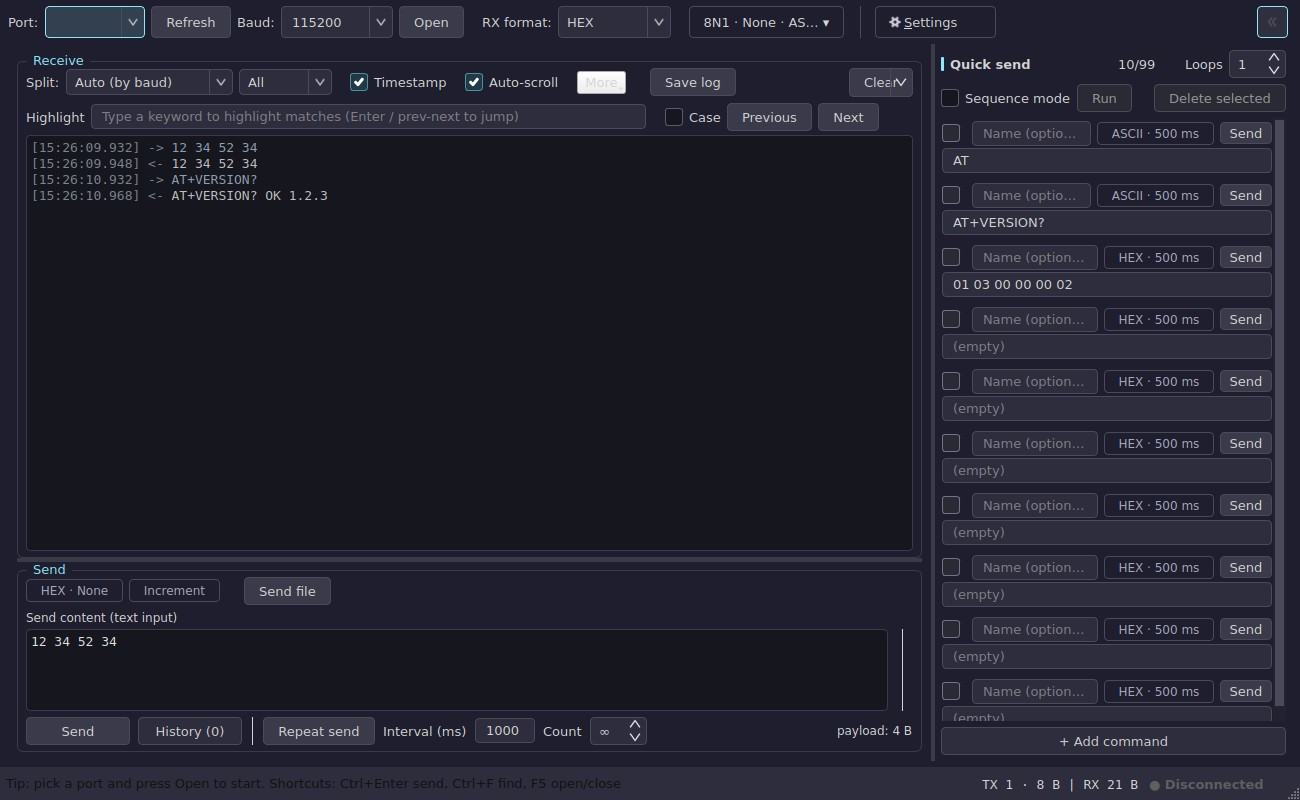
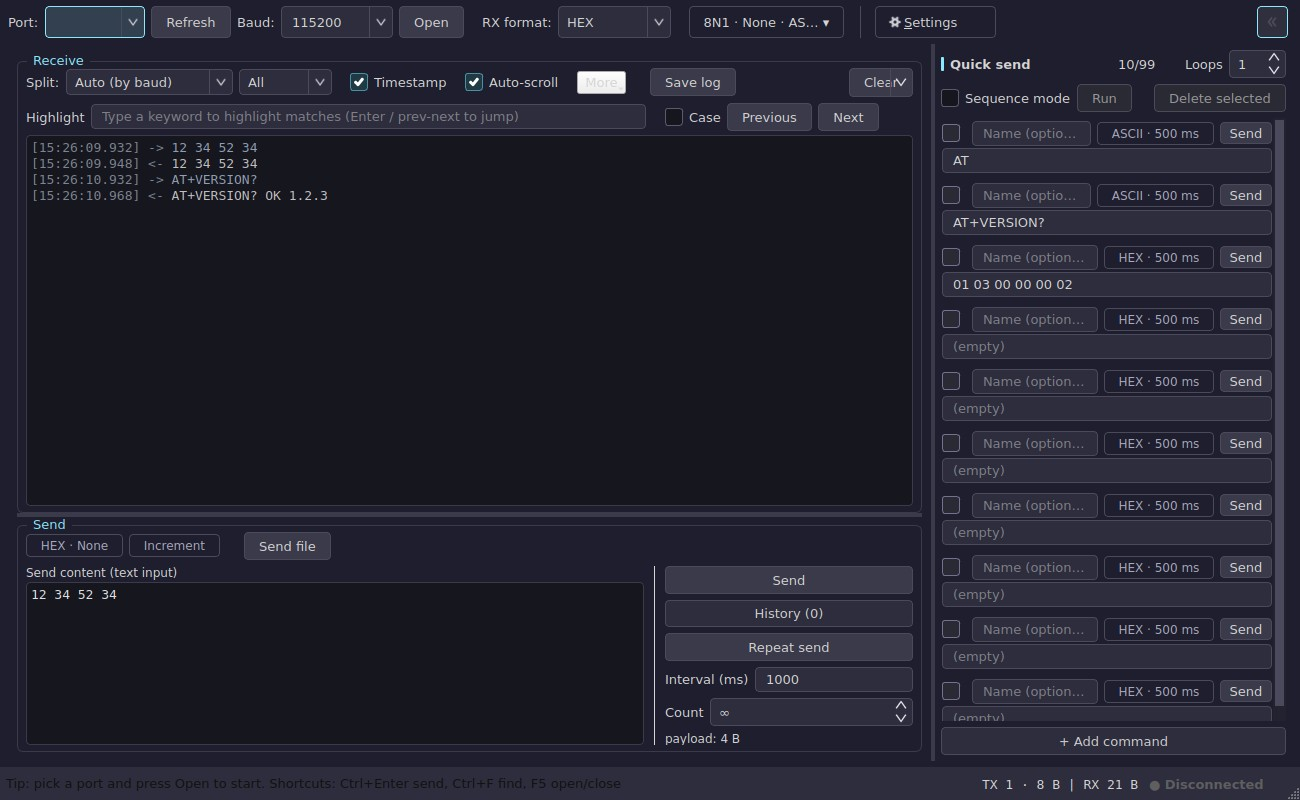
feat(ui): v1.8.3 - send area re-planned (input left, actions right)
Andy: "send on the right is easier to operate". The payload box now owns the left
side; Send, History and the repeat controls (repeat / interval / count) form a column
on the right edge, with the payload hint under them. _build_action_toolbar and
_build_repeat_controls are replaced by _build_payload_box / _build_input_and_actions /
_build_action_column; fit_tx_edit_height no longer reserves rows under the input, and
the layout test now asserts the column sits beside the box (not under it).
Pane minimum height 335 -> 235 px; window floor unchanged at 1175 px.
Fresh README screenshots regenerated for the new layout.

Changed region(s): [[0.0, 0.625, 0.7077, 0.9375]]

diff --git a/ui/regions.py b/ui/regions.py
@@ -280,21 +280,9 @@ def build_send_group(win: MainWindow) -> None:
     # layout squeezed the input to ~134 px (a control column ate ~83% of the
     # width) and capped its height at 90 px, so the send area looked like a toy.
     _build_payload_options(win, tx_layout)
-    # 2026-10-02 (Andy): lay the send area out by its labelled sections - "send
-    # content (text input)" above the box, "repeat send" beside the loop controls.
-    win._tx_content_lbl = QLabel(tr("tx.content.label"))
-    win._tx_content_lbl.setObjectName("payloadHint")   # same muted caption style
-    tx_layout.addWidget(win._tx_content_lbl)
-    tx_row = _build_input_row(win)
-    actions = _build_action_toolbar(win)
-    act_row = QHBoxLayout()
-    act_row.setContentsMargins(0, 2, 0, 0)
-    act_row.setSpacing(10)
-    act_row.addWidget(actions)
-    act_row.addStretch(1)
-    act_row.addWidget(win.tx_size_lbl)     # U121: next to the actions it describes
-    tx_layout.addLayout(tx_row, 1)          # U129: the input owns the middle
-    tx_layout.addLayout(act_row)
+    # 2026-10-02 (Andy): input box on the left, the action buttons in a column on
+    # the right - "send on the right is easier to operate".
+    tx_layout.addWidget(_build_input_and_actions(win), 1)
 
 
 def _build_payload_options(win: MainWindow, tx_layout: QVBoxLayout) -> None:
@@ -474,62 +462,17 @@ def _build_file_send(win: MainWindow, tx_fmt_row: QHBoxLayout) -> None:
     tx_fmt_row.addWidget(win.file_progress)
     win.file_info_lbl = QLabel("")
     tx_fmt_row.addWidget(win.file_info_lbl, 1)
-    # U121: the payload hint sits under the input it describes instead of the far
-    # end of the options row, which was ~400 px away from the text it counts.
-    win.tx_size_lbl = QLabel("")
-    win.tx_size_lbl.setToolTip(tr("tx.payload.tip"))
-    # the app stylesheet drives the widget font, so the smaller size is asked for
-    # by object name (QLabel#payloadHint) instead of a QFont that QSS would override
-    win.tx_size_lbl.setObjectName("payloadHint")
 
 
-def _build_repeat_controls(win: MainWindow) -> QHBoxLayout:
-    """The repeat-send cluster, labelled as its own group (2026-10-02).
-
-    Andy's annotated layout names the three parts of the send area: the content box,
-    the repeat controls (interval + count) and the send/history buttons. This row is
-    the middle one - a "Repeat send" caption in front of the toggle and its two
-    numbers, so the cluster no longer reads as one long run of unlabelled controls.
-    """
-    repeat_row = QHBoxLayout()
-    repeat_row.setSpacing(8)
-    # 2026-10-02: no separate caption here - the toggle button already reads
-    # "Repeat send", and a caption repeating it made the row read "Repeat send
-    # Repeat send interval count".
-    # U98: "Repeat send" starts and stops a process, so it is a toggle button that
-    # reads "Stop repeat" while running - a checkbox stood in for an action before.
-    win.repeat_btn = QPushButton(tr("tx.repeat"))
-    win.repeat_btn.setCheckable(True)
-    win.repeat_btn.setToolTip(tr("tx.repeat.tip"))
-    win.repeat_btn.toggled.connect(win._on_repeat_toggled)
-    repeat_row.addWidget(win.repeat_btn)
-    win._repeat_lbl = QLabel(tr("tx.interval.label"))   # U31: unit lives in the label
-    repeat_row.addWidget(win._repeat_lbl)
-    win.repeat_ms = QLineEdit("1000")
-    win.repeat_ms.setValidator(QIntValidator(10, 60000, win))
-    # U113: the label carries "(ms)", so the box only has to fit 60000
-    win.repeat_ms.setFixedWidth(win.repeat_ms.fontMetrics().horizontalAdvance("60000") + 22)
-    win.repeat_ms.setToolTip(tr("tx.interval.tip"))
-    win.repeat_ms.textChanged.connect(win._on_repeat_interval)
-    repeat_row.addWidget(win.repeat_ms)
-    # U171: how many repeats to send; 0 (shown as the infinity sign) keeps going
-    # until stopped - the same "0 = endless" rule as the quick-send sequence.
-    win._repeat_cnt_lbl = QLabel(tr("tx.repeat.count"))
-    repeat_row.addWidget(win._repeat_cnt_lbl)
-    win.repeat_times = QSpinBox()
-    win.repeat_times.setRange(0, 9999)
-    win.repeat_times.setValue(0)
-    win.repeat_times.setSpecialValueText("\u221e")
-    win.repeat_times.setToolTip(tr("tx.repeat.count.tip"))
-    win.repeat_times.setFixedWidth(
-        win.repeat_times.fontMetrics().horizontalAdvance("9999") + 26)
-    repeat_row.addWidget(win.repeat_times)
-    return repeat_row
-
-
-def _build_input_row(win: MainWindow) -> QHBoxLayout:
-    """The payload box (one line, horizontal scroll) and the column separator."""
-    tx_row = QHBoxLayout()
+def _build_payload_box(win: MainWindow) -> QWidget:
+    """Left column: the "send content" caption above the payload box (2026-10-02)."""
+    box = QWidget()
+    col = QVBoxLayout(box)
+    col.setContentsMargins(0, 0, 0, 0)
+    col.setSpacing(2)
+    win._tx_content_lbl = QLabel(tr("tx.content.label"))
+    win._tx_content_lbl.setObjectName("payloadHint")   # the muted caption style
+    col.addWidget(win._tx_content_lbl)
     win.tx_edit = QPlainTextEdit()
     # U130: data is one line, even when it is 400 characters long - wrapping it
     # mid-token was lying about the payload. Long content scrolls horizontally.
@@ -538,59 +481,91 @@ def _build_input_row(win: MainWindow) -> QHBoxLayout:
     win.tx_edit.setToolTip(tr("tx.placeholder"))   # U114-D6: the examples live here
     win.tx_edit.textChanged.connect(win._check_hex_input)
     win.tx_edit.textChanged.connect(win._fit_tx_edit_height)   # U111: compact by default
-    win._fit_tx_edit_height()
-    tx_row.addWidget(win.tx_edit, 1)
-    tx_row.addSpacing(10)
+    col.addWidget(win.tx_edit, 1)
+    return box
+
+
+def _build_input_and_actions(win: MainWindow) -> QWidget:
+    """Left: the payload box. Right: send / history / repeat (2026-10-02, Andy).
+
+    "Send on the right is easier to operate": the buttons and the repeat controls
+    form a column on the right edge of the send pane, with the input beside it.
+    """
+    holder = QWidget()
+    row = QHBoxLayout(holder)
+    row.setContentsMargins(0, 0, 0, 0)
+    row.setSpacing(10)
+    row.addWidget(_build_payload_box(win), 1)
     tx_sep = QFrame()                        # U98: input area | action area
     tx_sep.setObjectName("vSep")
     tx_sep.setFrameShape(QFrame.Shape.VLine)
     tx_sep.setFixedWidth(1)
-    tx_row.addWidget(tx_sep)
-    tx_row.addSpacing(10)
-    return tx_row
+    row.addWidget(tx_sep)
+    row.addWidget(_build_action_column(win))
+    return holder
 
 
-def _build_action_toolbar(win: MainWindow) -> QWidget:
-    """U99/U129: Send + History on one line, the repeat controls beside them."""
+def _build_action_column(win: MainWindow) -> QWidget:
+    """The right-hand action column: send, history, then the repeat controls."""
     actions = QWidget()
-    act_col = QHBoxLayout(actions)          # U129: a toolbar, not a column
+    act_col = QVBoxLayout(actions)
     act_col.setContentsMargins(0, 0, 0, 0)
-    act_col.setSpacing(10)
-    # U119-P1: no leading/trailing stretch - the actions start on the same baseline
-    # as the options row instead of floating in the middle of a tall pane.
-
-    btn_row = QHBoxLayout()
-    btn_row.setSpacing(8)
+    act_col.setSpacing(6)
     win.send_btn = QPushButton(tr("btn.send"))
     win.send_btn.clicked.connect(win.on_send)
     win.send_btn.setDefault(True)
-    win.send_btn.setMinimumWidth(104)
-    win.send_btn.setSizePolicy(QSizePolicy.Policy.Preferred, QSizePolicy.Policy.Fixed)
+    win.send_btn.setMinimumWidth(112)
     win.send_btn.setToolTip(tr("sc.send.tip"))
-    btn_row.addWidget(win.send_btn)
+    act_col.addWidget(win.send_btn)
     # U87: the history is a popup now, so it costs one compact button beside the
     # primary action instead of a whole row of its own.
     win.history_btn = QPushButton(tr("tx.history.btn", n=0))
     win.history_btn.setToolTip(tr("tx.history.btn.tip", n=0))
-    win.history_btn.setMinimumWidth(104)
+    win.history_btn.setMinimumWidth(112)
     win.history_btn.setProperty("secondary", True)   # U98: a reference, not a peer
-    win.history_btn.setSizePolicy(QSizePolicy.Policy.Preferred, QSizePolicy.Policy.Fixed)
     win.history_btn.setEnabled(False)
     win.history_btn.clicked.connect(win._show_history)
-    btn_row.addWidget(win.history_btn)
-    act_col.addLayout(btn_row)
-
-    repeat_row = _build_repeat_controls(win)
-    # U130-fix: the row was built but never attached to the toolbar, so the repeat
-    # controls had no parent and stayed invisible from v1.5.1 on (the layout became a
-    # single-line toolbar there and this addLayout was lost).
-    tx_act_sep = QFrame()
-    tx_act_sep.setObjectName("vSep")
-    tx_act_sep.setFrameShape(QFrame.Shape.VLine)
-    tx_act_sep.setFixedWidth(1)
-    act_col.addWidget(tx_act_sep)
-    act_col.addLayout(repeat_row)
+    act_col.addWidget(win.history_btn)
+    # U98: "Repeat send" starts and stops a process, so it is a toggle button that
+    # reads "Stop repeat" while running - a checkbox stood in for an action before.
+    win.repeat_btn = QPushButton(tr("tx.repeat"))
+    win.repeat_btn.setCheckable(True)
+    win.repeat_btn.setToolTip(tr("tx.repeat.tip"))
+    win.repeat_btn.toggled.connect(win._on_repeat_toggled)
+    act_col.addWidget(win.repeat_btn)
+    interval_row = QHBoxLayout()
+    interval_row.setSpacing(6)
+    win._repeat_lbl = QLabel(tr("tx.interval.label"))   # U31: unit lives in the label
+    interval_row.addWidget(win._repeat_lbl)
+    win.repeat_ms = QLineEdit("1000")
+    win.repeat_ms.setValidator(QIntValidator(10, 60000, win))
+    win.repeat_ms.setToolTip(tr("tx.interval.tip"))
+    win.repeat_ms.textChanged.connect(win._on_repeat_interval)
+    interval_row.addWidget(win.repeat_ms, 1)
+    act_col.addLayout(interval_row)
+    # U171: how many repeats to send; 0 (shown as the infinity sign) keeps going
+    # until stopped - the same "0 = endless" rule as the quick-send sequence.
+    count_row = QHBoxLayout()
+    count_row.setSpacing(6)
+    win._repeat_cnt_lbl = QLabel(tr("tx.repeat.count"))
+    count_row.addWidget(win._repeat_cnt_lbl)
+    win.repeat_times = QSpinBox()
+    win.repeat_times.setRange(0, 9999)
+    win.repeat_times.setValue(0)
+    win.repeat_times.setSpecialValueText("\u221e")
+    win.repeat_times.setToolTip(tr("tx.repeat.count.tip"))
+    count_row.addWidget(win.repeat_times, 1)
+    act_col.addLayout(count_row)
+    # U121: the payload hint sits with the actions it describes
+    win.tx_size_lbl = QLabel("")
+    win.tx_size_lbl.setToolTip(tr("tx.payload.tip"))
+    # the app stylesheet drives the widget font, so the smaller size is asked for
+    # by object name (QLabel#payloadHint) instead of a QFont that QSS would override
+    win.tx_size_lbl.setObjectName("payloadHint")
+    act_col.addWidget(win.tx_size_lbl)
+    act_col.addStretch(1)
     return actions
+
 
 def build_data_panes(win: MainWindow, root: QWidget) -> None:
     """Data panes: receive group, splitter wiring, send group and the quick-send panel."""

diff --git a/ui/layout_controller.py b/ui/layout_controller.py
@@ -223,19 +223,16 @@ def fit_tx_edit_height(win: MainWindow) -> None:
         bottoms = [w.mapTo(win._tx_group, w.rect().bottomLeft()).y()
                    for w in above_probes if w.isVisible()]
         above = (max(bottoms) if bottoms else 0) + 6
-        below = max((w.height() for w in (win.send_btn, win.repeat_ms)
-                     if w.isVisible()), default=0) + 8
-        avail = win._tx_group.height() - above - below - 6
-        cap = 26 * line + chrome
-        # 2026-10-02: the "send content" caption above the box is part of the send
-        # pane's fixed budget. Take its height out of the input, or the pane's
-        # minimum grows by one text row and overflows the splitter at 1070x600.
+        # 2026-10-02 (Andy): the actions sit BESIDE the input now (a column on the
+        # right), so nothing sits below it - only the caption above the box and the
+        # group margins come off the height.
         cap_lbl = getattr(win, "_tx_content_lbl", None)
-        caption = (cap_lbl.sizeHint().height() + 4) if cap_lbl is not None \
+        caption = (cap_lbl.sizeHint().height() + 2) if cap_lbl is not None \
             and cap_lbl.isVisible() else 0
+        avail = win._tx_group.height() - above - caption - 8
+        cap = 26 * line + chrome
         # at least three lines - one line was what made the box feel cramped
-        win.tx_edit.setFixedHeight(
-            int(max(3 * line + chrome, min(avail, cap)) - caption))
+        win.tx_edit.setFixedHeight(int(max(3 * line + chrome, min(avail, cap))))
     finally:
         win._fitting_tx = False
 

diff --git a/tests/test_ui_smoke.py b/tests/test_ui_smoke.py
@@ -60,11 +60,20 @@ def test_send_input_is_at_least_three_lines_and_does_not_wrap(app, win):
     assert win.tx_edit.lineWrapMode() == QPlainTextEdit.LineWrapMode.NoWrap
 
 
-def test_actions_sit_below_the_input(app, win):
-    group_y = win._tx_group.mapTo(win, win._tx_group.rect().topLeft()).y()
-    input_y = win.tx_edit.mapTo(win, win.tx_edit.rect().topLeft()).y()
-    send_y = win.send_btn.mapTo(win, win.send_btn.rect().topLeft()).y()
-    assert group_y < input_y < send_y
+def test_actions_sit_beside_the_input(app, win):
+    """2026-10-02 (Andy): input left, send/history/repeat in a column on the right.
+
+    The old assertion was "input above the buttons"; the buttons intentionally moved
+    to the right edge, so this now checks the column is beside the box, not under it.
+    """
+    group = win._tx_group
+    input_right = win.tx_edit.mapTo(group, win.tx_edit.rect().topRight()).x()
+    for name, widget in (("send", win.send_btn), ("history", win.history_btn),
+                         ("repeat", win.repeat_btn), ("interval", win.repeat_ms)):
+        left = widget.mapTo(group, widget.rect().topLeft()).x()
+        assert left >= input_right, "%s is not to the right of the input" % name
+    # the box is still inside the send group, below the options row
+    assert win.tx_edit.mapTo(group, win.tx_edit.rect().topLeft()).y() > 0
 
 
 def test_quick_send_rows_show_name_and_command_lines(app, win):

diff --git a/app/__init__.py b/app/__init__.py
@@ -1,3 +1,3 @@
 """SerialDesk application package."""
 
-__version__ = "1.8.2"
+__version__ = "1.8.3"

diff --git a/README.md b/README.md
@@ -123,7 +123,8 @@ A cross-platform serial debugging tool for embedded, motor-control and industria
 | **v1.7.0** | 序列循环轮数、重复发送次数，UI 批 A-D 收口（图标重绘、行重排、过滤缺陷修复） | ✅ 已完成 |
 | **v1.8.0** | 发送区 `{i}` 自动递增、接收区常驻关键词高亮条、快速发送命令名称 + 备注（两行、无损迁移） | ✅ 已完成 |
 | **v1.8.1** | 修复与打磨：新数据即时高亮、序列「已发 N 次」计数 + 当前发送行高亮、折叠控件去重、SpinBox 上下箭头与清空下拉箭头放大 | ✅ 已完成 |
-| **v1.8.2** | 发送区按分区标注（发送内容区 / 循环发送 / 发送·历史）、打勾即可删除选中、折叠按钮移至连接行最右端 | ✅ 本次发布 |
+| **v1.8.2** | 发送区按分区标注（发送内容区 / 循环发送 / 发送·历史）、打勾即可删除选中、折叠按钮移至连接行最右端 | ✅ 已完成 |
+| **v1.8.3** | 发送区改版：输入框在左、发送 / 历史 / 循环控件成列在右（发送按钮顺手），面板最小高度 335→235px | ✅ 本次发布 |
 | v1.1+ | 波形显示（pyqtgraph）、TCP / UDP 调试、协议解析面板 | 计划中（按用户反馈排优先级）|
 
 ## 快速开始
@@ -294,7 +295,8 @@ Why the warnings: the exe is unsigned (certificates are a yearly paid service), 
 | **v1.7.0** | Sequence loop count and repeat-send count, closing out UI batches A-D (regenerated icons, row re-plan, filter fixes) | ✅ Done |
 | **v1.8.0** | `{i}` auto-increment in the send box, a persistent receive keyword highlight bar, named quick-send commands with notes (two-line rows, lossless migration) | ✅ Done |
 | **v1.8.1** | Fixes and polish: live highlighting for newly received rows, a "sent N times" sequence counter plus a highlight on the row being sent, the duplicate fold control removed, and larger spin-box / clear-dropdown arrows | ✅ Done |
-| **v1.8.2** | Send area labelled by its sections (send content / repeat send / send·history), ticking a row now arms "Delete selected", and the fold toggle moved to the far right of the connection row | ✅ This release |
+| **v1.8.2** | Send area labelled by its sections (send content / repeat send / send·history), ticking a row now arms "Delete selected", and the fold toggle moved to the far right of the connection row | ✅ Done |
+| **v1.8.3** | Send area re-planned: payload box on the left, Send / History / repeat controls in a column on the right (the primary button under the hand); pane minimum height 335→235 px | ✅ This release |
 | v1.1+ | Waveform view (pyqtgraph), TCP / UDP, protocol analyser panel | Planned (prioritised by user feedback) |
 
 ### Quick start

diff --git a/CHANGELOG.md b/CHANGELOG.md
@@ -1,5 +1,22 @@
 # Changelog
 
+## [v1.8.3] - 2026-10-02
+
+### Changed
+
+- **Send area re-planned** (Andy): the payload box now owns the left side and the
+  actions form a column on the right edge - Send, History, then the repeat controls
+  (repeat / interval / count) - so the primary button sits right under the hand.
+  The "send content (text input)" caption stays above the box, and the payload hint
+  moved under the buttons.
+
+### Internal quality (no user-visible change)
+
+- The send pane's minimum height dropped from 335 px to 235 px, because the action
+  rows no longer stack underneath the input; the window's minimum width is unchanged
+  (1175 px on Linux), and the UI gate (overflow / min-width / contrast) stays clear.
+
+
 ## [v1.8.2] - 2026-10-02
 
 ### Added
